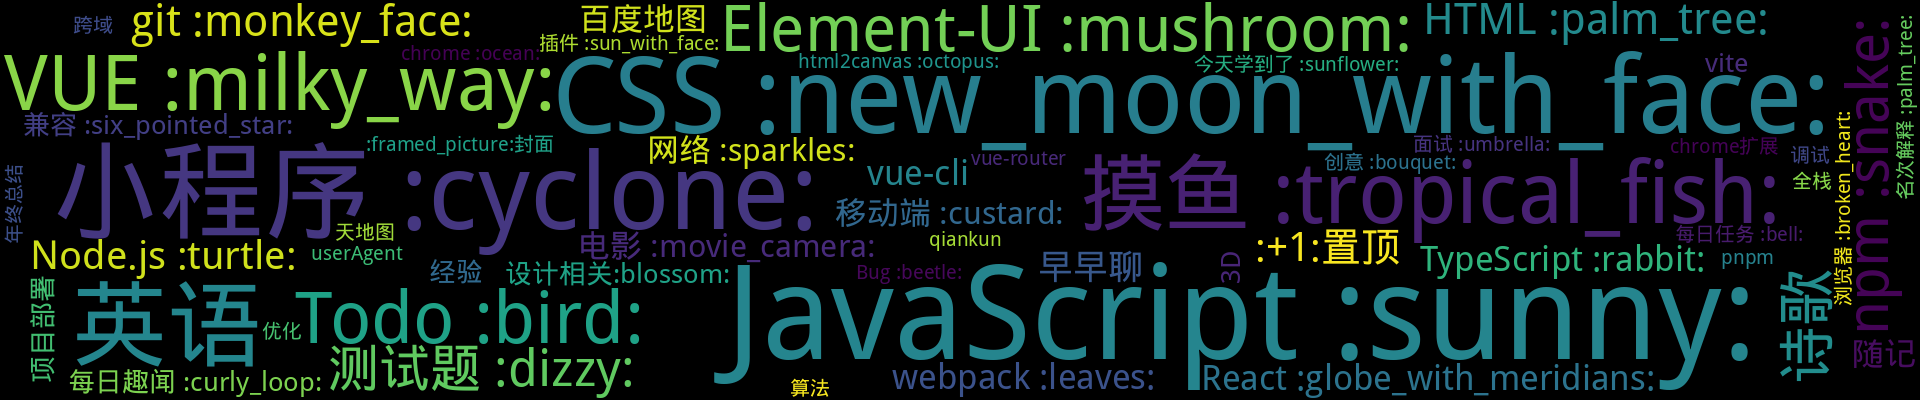
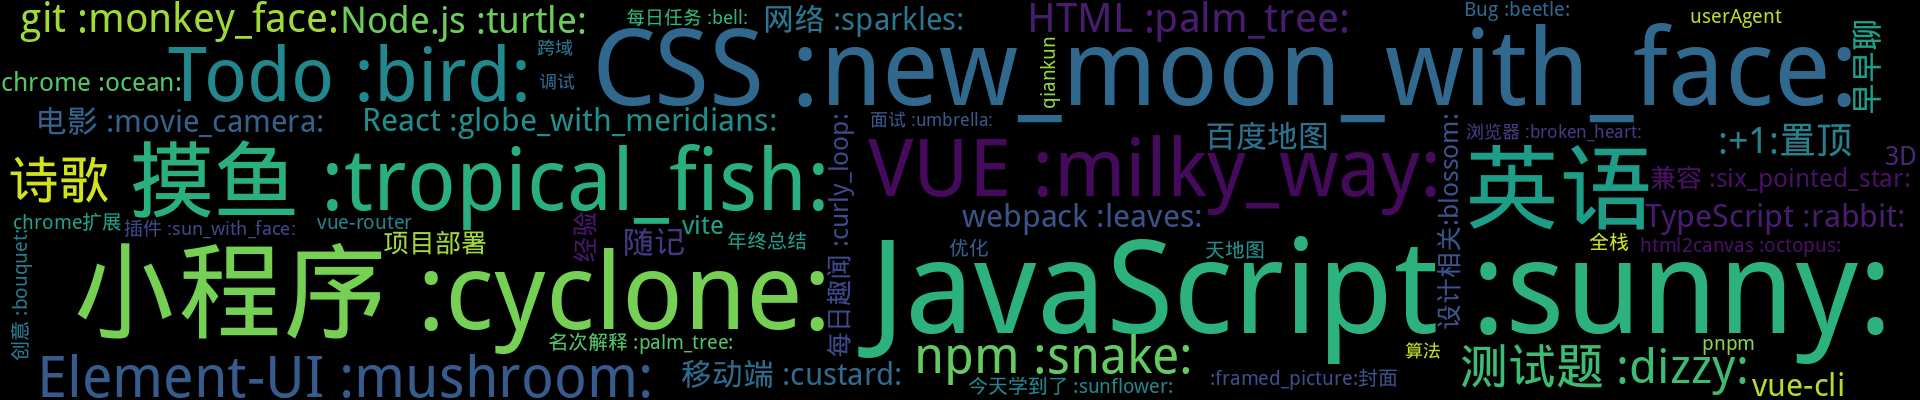
Update from Github Action

diff --git a/README.md b/README.md
@@ -3,7 +3,7 @@
 <p align='center'>
     <img src="https://badgen.net/badge/labels/59"/>
     <img src="https://badgen.net/github/issues/smileyby/ghiblog"/>
-    <img src="https://badgen.net/badge/last-commit/2023-08-14 10:01:09"/>
+    <img src="https://badgen.net/badge/last-commit/2023-08-17 10:01:48"/>
     <img src="https://badgen.net/github/forks/smileyby/ghiblog"/>
     <img src="https://badgen.net/github/stars/smileyby/ghiblog"/>
     <img src="https://badgen.net/github/watchers/smileyby/ghiblog"/>
@@ -38,6 +38,22 @@
 - [你想住在中国哪里？（转自阮一峰周刊第180期）](https://github.com/smileyby/notes/issues/167)  <sup>0 :speech_balloon:</sup>  	 
 - [掘金小册：小程序底层框架实现原理-笔记](https://github.com/smileyby/notes/issues/165)  <sup>0 :speech_balloon:</sup>  	 
 ## 最新 :new: 
+
+#### [chrome性能面板指标解释](https://github.com/smileyby/notes/issues/279) <sup>0 :speech_balloon:</sup> 	 2023-08-17 10:01:22
+
+:label: : [chrome :ocean:](https://github.com/smileyby/ghiblog/labels/chrome%20%3Aocean%3A)
+
+chrome => performance => summary
+Loading（加载）: 
+这是指从发起网络请求到接收到第一个字节的时间。它反映了网络请求的延迟时间。
+
+Scripting（脚本处理）:
+这是指解析和执行JavaScript代码的时间。它包括将JavaScript代码编译
+
+[更多>>>](https://github.com/smileyby/notes/issues/279)
+
+---
+
 
 #### [router-view 设置key后导致乾坤匹配的子路由不渲染](https://github.com/smileyby/notes/issues/278) <sup>0 :speech_balloon:</sup> 	 2023-08-14 10:00:45
 
@@ -80,17 +96,6 @@ https://www.jb51.net/article/192781.htm
 tabindex 指示其元素是否可以聚焦，以及它是否/在何处参与顺序键盘导航
 
 [更多>>>](https://github.com/smileyby/notes/issues/275)
-
----
-
-
-#### [weakmap 存储dom节点，垃圾回收后会自动删除？](https://github.com/smileyby/notes/issues/274) <sup>0 :speech_balloon:</sup> 	 2023-07-28 01:25:18
-
-:label: : [JavaScript :sunny:](https://github.com/smileyby/ghiblog/labels/JavaScript%20%3Asunny%3A)
-
-https://www.macarthur.me/posts/maps-for-dom-nodes
-
-[更多>>>](https://github.com/smileyby/notes/issues/274)
 
 ---
 
@@ -141,8 +146,9 @@ https://www.macarthur.me/posts/maps-for-dom-nodes
 </details>
 
 <details>
-<summary>chrome :ocean:	<sup>1:newspaper:</sup></summary>
+<summary>chrome :ocean:	<sup>2:newspaper:</sup></summary>
 
+- [chrome性能面板指标解释](https://github.com/smileyby/notes/issues/279)  <sup>0 :speech_balloon:</sup>  	 
 - [Chrome 调试移动端H5页面](https://github.com/smileyby/notes/issues/129)  <sup>0 :speech_balloon:</sup>  	 
 
 
